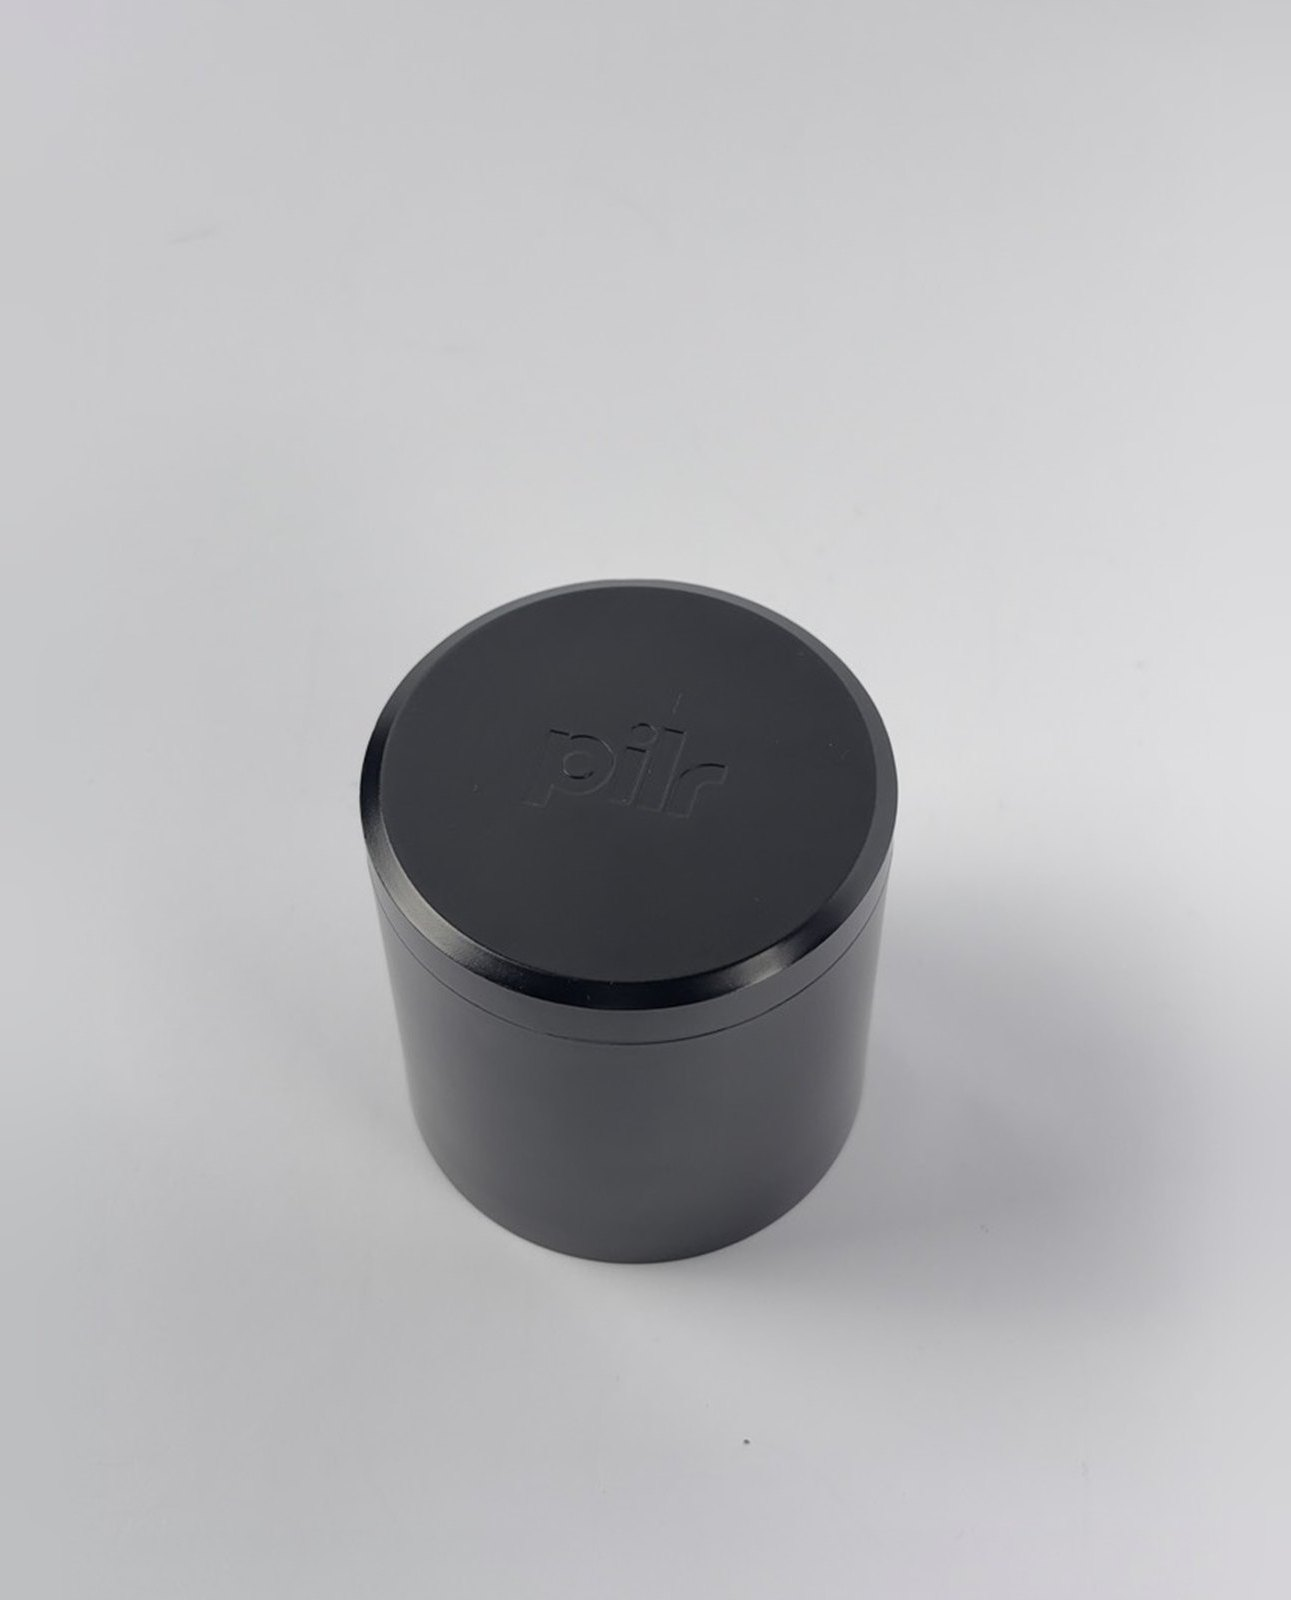
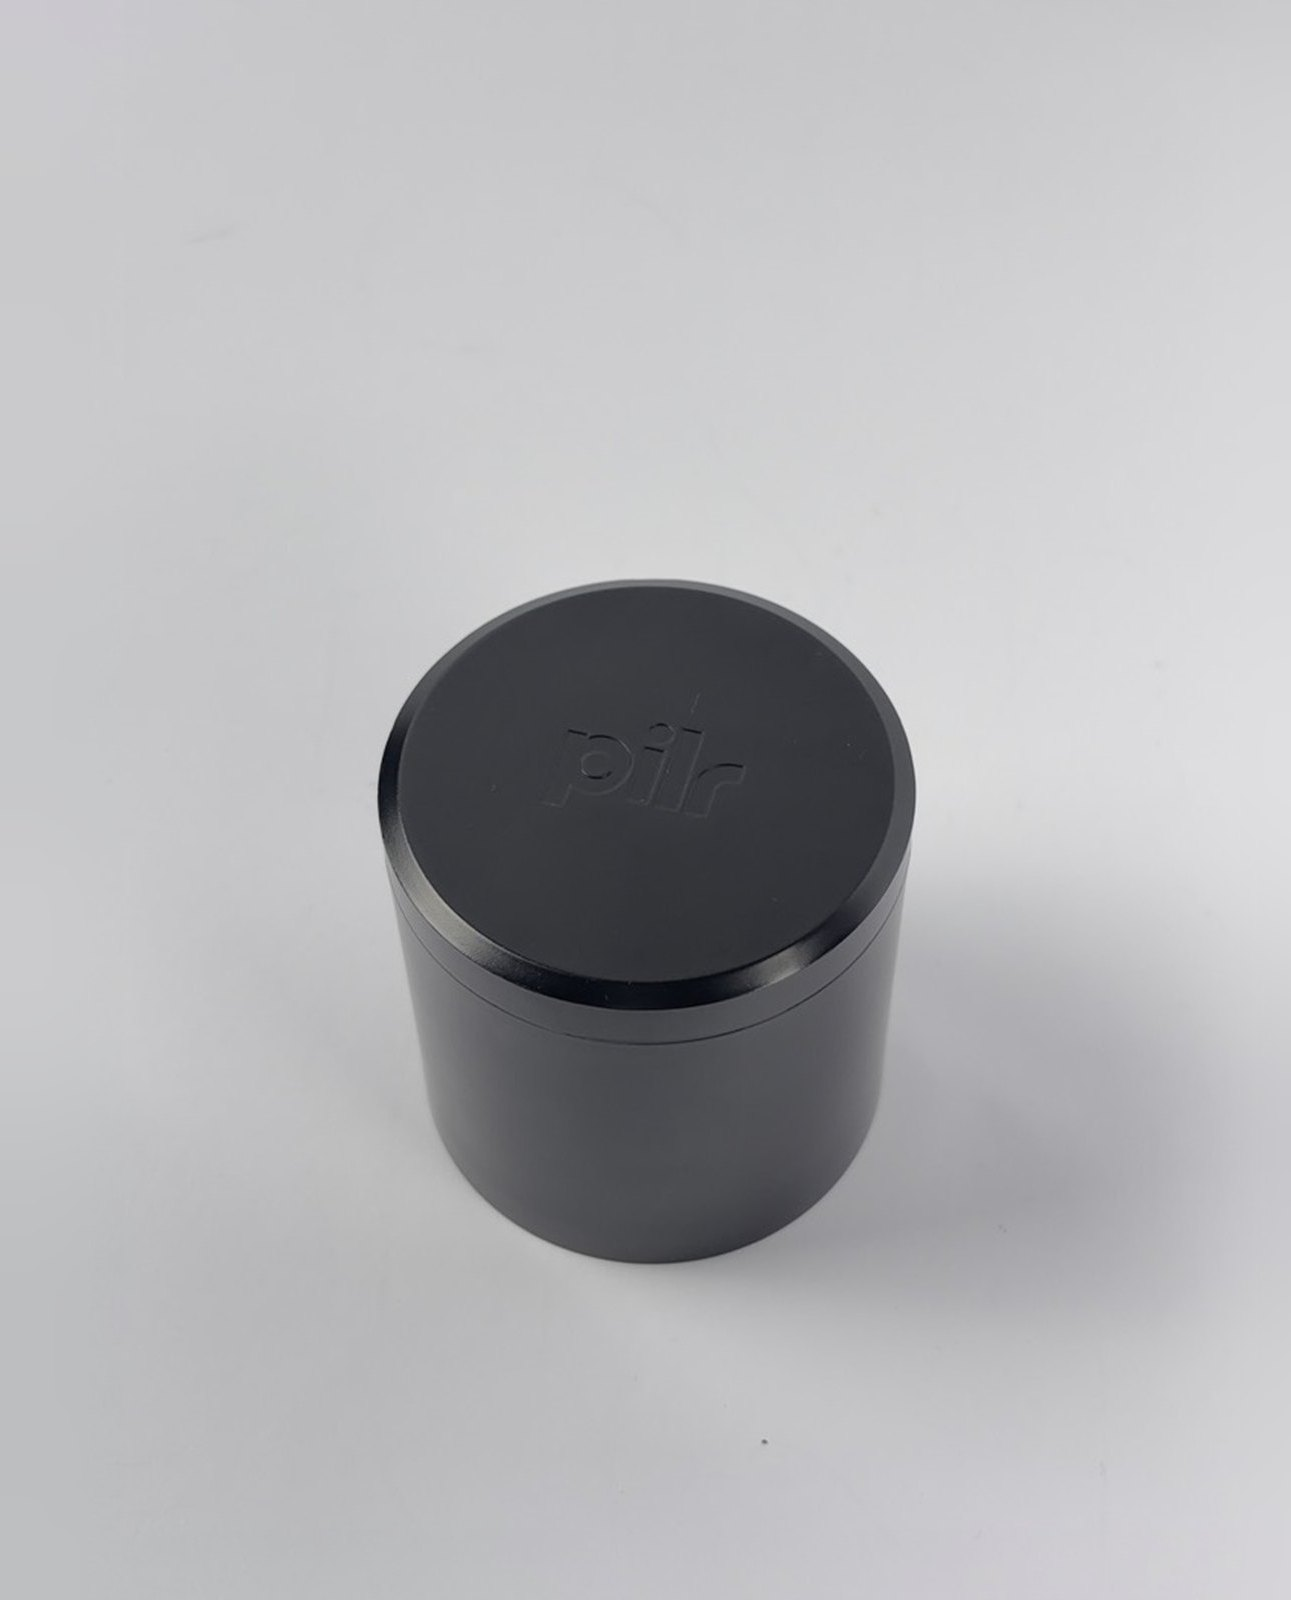
Powder Pod gallery: reposition second and third images, extended third image so the pod sits smaller in frame

diff --git a/powder-pod.html b/powder-pod.html
@@ -336,11 +336,11 @@
           <button type="button" class="pg-thumb is-active" data-src="images/lifestyle_section/Powder Pod Prod Image 1.jpg" data-imgstyle="width: calc(100% + 18px); max-width: none; margin-left: -18px; object-position: 50% 70.8%" aria-label="Photo 1">
             <img src="images/lifestyle_section/Powder Pod Prod Image 1.jpg" alt="" />
           </button>
-          <button type="button" class="pg-thumb" data-src="images/lifestyle_section/Powder Pod Prod Image 2 Wide.jpg" aria-label="Photo 2">
+          <button type="button" class="pg-thumb" data-src="images/lifestyle_section/Powder Pod Prod Image 2 Wide.jpg" data-imgstyle="object-position: 50% 76.1%" aria-label="Photo 2">
             <img src="images/lifestyle_section/Powder Pod Prod Image 2 Wide.jpg" alt="" />
           </button>
-          <button type="button" class="pg-thumb" data-src="images/lifestyle_section/Powder Pod Prod Image 3.jpg" aria-label="Photo 3">
-            <img src="images/lifestyle_section/Powder Pod Prod Image 3.jpg" alt="" />
+          <button type="button" class="pg-thumb" data-src="images/lifestyle_section/Powder Pod Prod Image 3 Wide.jpg" data-imgstyle="object-position: 50% 55.8%" aria-label="Photo 3">
+            <img src="images/lifestyle_section/Powder Pod Prod Image 3 Wide.jpg" alt="" />
           </button>
           <button type="button" class="pg-thumb" data-src="images/lifestyle_section/Powder Pod Prod Image 5.jpg" aria-label="Photo 4">
             <img src="images/lifestyle_section/Powder Pod Prod Image 5.jpg" alt="" />
